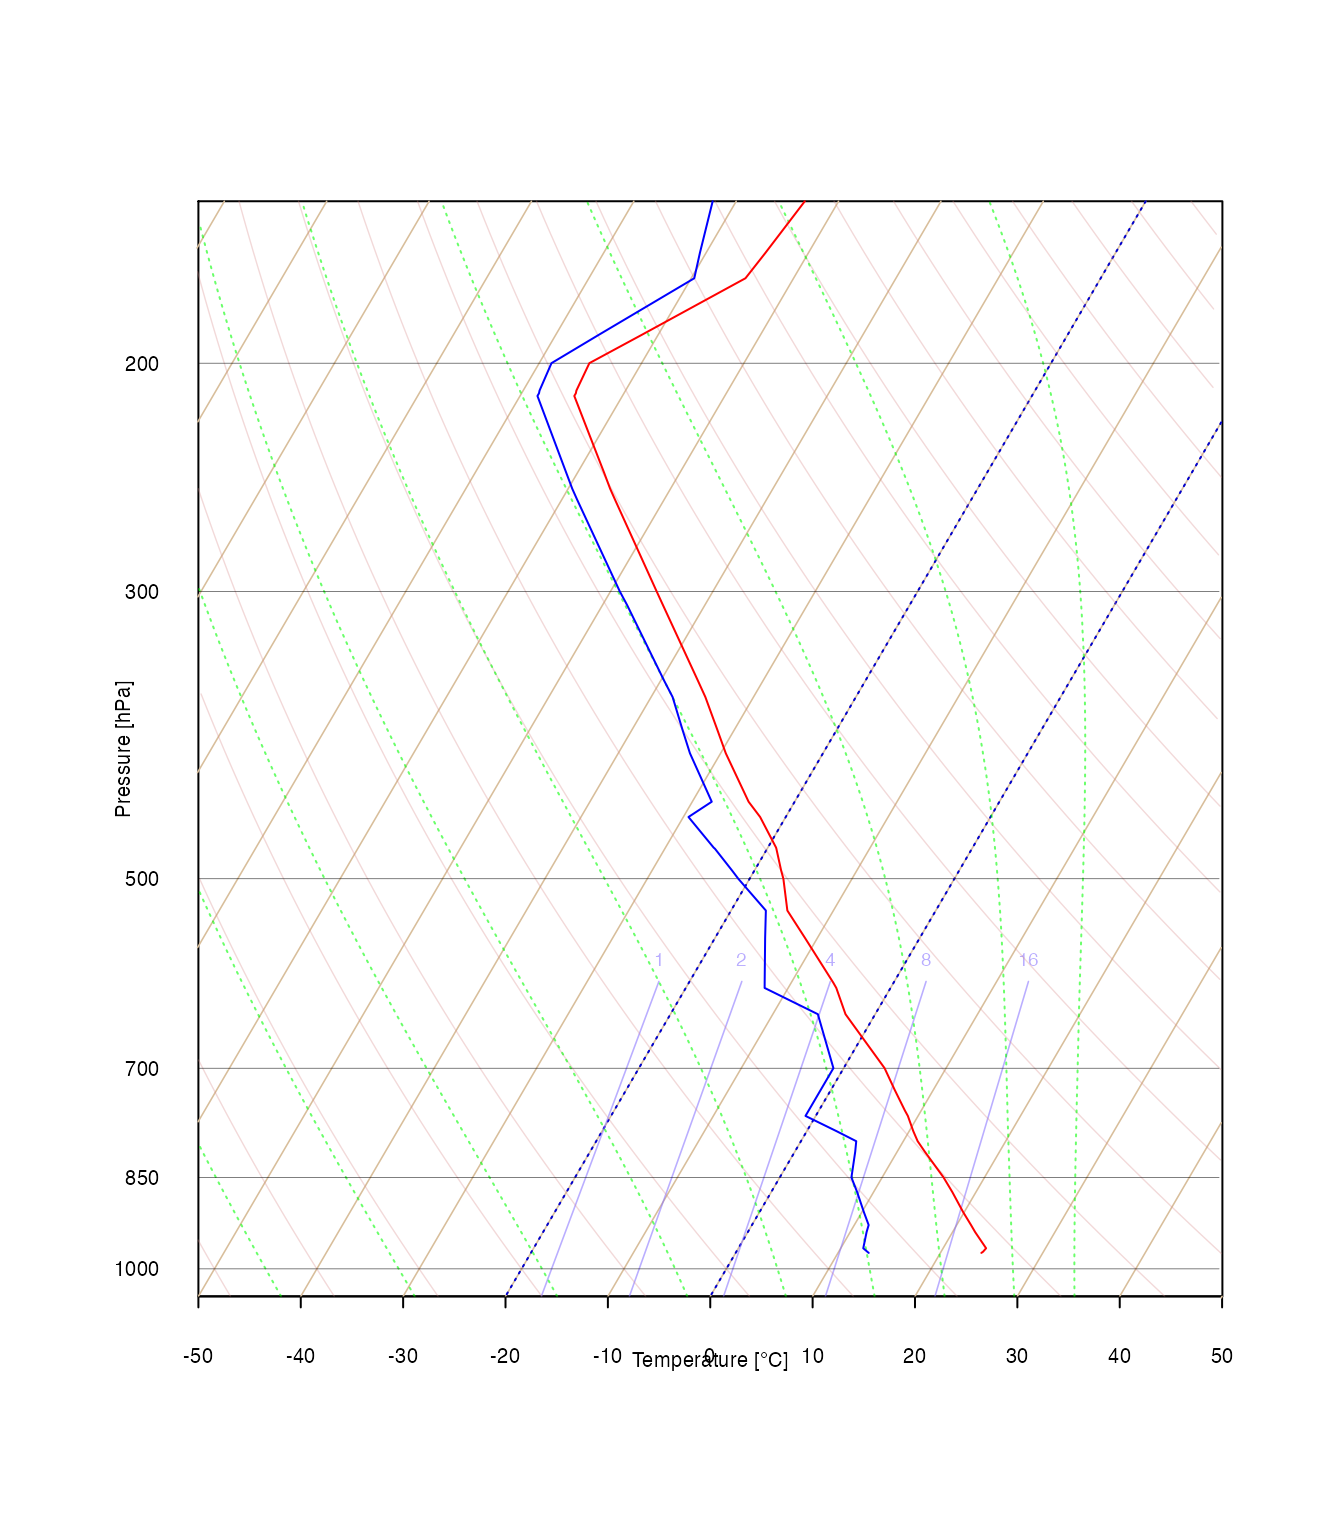
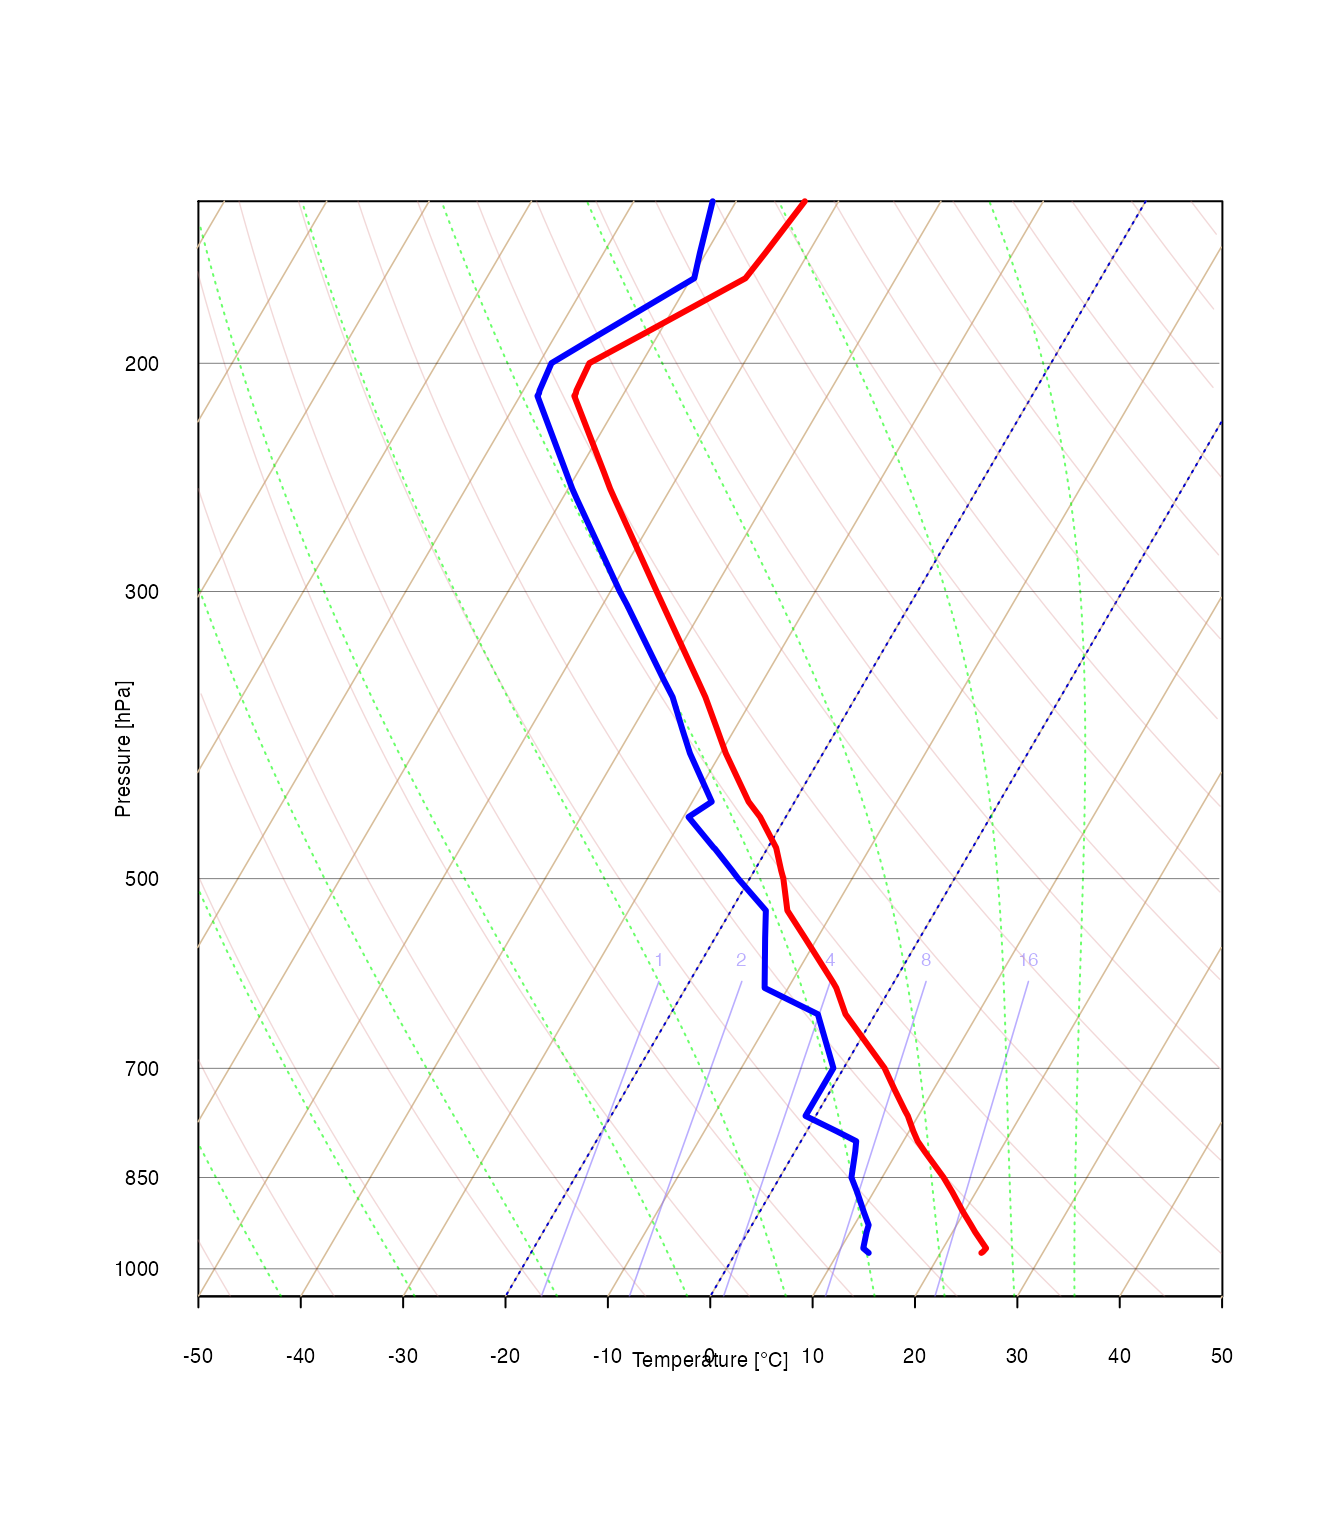
vignettes

diff --git a/docs/articles/getstarted.html b/docs/articles/getstarted.html
@@ -143,7 +143,7 @@
 <div class="sourceCode" id="cb2"><pre class="downlit sourceCode r">
 <code class="sourceCode R"><span class="va">profile</span> <span class="op">=</span> <span class="fu"><a href="../reference/get_sounding.html">get_sounding</a></span><span class="op">(</span>wmo_id <span class="op">=</span> <span class="fl">72562</span>, yy <span class="op">=</span> <span class="fl">1999</span>, mm <span class="op">=</span> <span class="fl">7</span>, dd <span class="op">=</span> <span class="fl">3</span>, hh <span class="op">=</span> <span class="fl">0</span><span class="op">)</span>
 <span class="co">#&gt; [1] "http://weather.uwyo.edu/cgi-bin/sounding?region=europe&amp;TYPE=TEXT%3ALIST&amp;YEAR=1999&amp;MONTH=07&amp;FROM=0300&amp;TO=0300&amp;STNM=72562"</span>
-<span class="co">#&gt; /var/folders/lw/3fnnk87n4q1dkl35s2_p24h80000gn/T//RtmpVd1t0z/filecac4297c04f</span>
+<span class="co">#&gt; /var/folders/lw/3fnnk87n4q1dkl35s2_p24h80000gn/T//RtmpLjT5dp/filedb72eaa55e</span>
 <span class="fu"><a href="https://rdrr.io/r/utils/head.html">head</a></span><span class="op">(</span><span class="va">profile</span><span class="op">)</span> <span class="co"># show first few rows of downloaded dataset</span>
 <span class="co">#&gt;   pressure altitude temp dpt  wd ws</span>
 <span class="co">#&gt; 3      906      849   32  26 110 14</span>
@@ -286,7 +286,7 @@
 <div class="sourceCode" id="cb4"><pre class="downlit sourceCode r">
 <code class="sourceCode R"><span class="va">chanhassen</span> <span class="op">=</span> <span class="fu"><a href="../reference/get_sounding.html">get_sounding</a></span><span class="op">(</span>wmo_id <span class="op">=</span> <span class="fl">72649</span>, yy <span class="op">=</span> <span class="fl">2001</span>, mm <span class="op">=</span> <span class="fl">5</span>, dd <span class="op">=</span> <span class="fl">10</span>, hh <span class="op">=</span> <span class="fl">00</span><span class="op">)</span>
 <span class="co">#&gt; [1] "http://weather.uwyo.edu/cgi-bin/sounding?region=europe&amp;TYPE=TEXT%3ALIST&amp;YEAR=2001&amp;MONTH=05&amp;FROM=1000&amp;TO=1000&amp;STNM=72649"</span>
-<span class="co">#&gt; /var/folders/lw/3fnnk87n4q1dkl35s2_p24h80000gn/T//RtmpVd1t0z/filecac74c046b8</span>
+<span class="co">#&gt; /var/folders/lw/3fnnk87n4q1dkl35s2_p24h80000gn/T//RtmpLjT5dp/filedb740fab998</span>
 <span class="fu"><a href="../reference/sounding_hodograph.html">sounding_hodograph</a></span><span class="op">(</span>ws <span class="op">=</span> <span class="va">chanhassen</span><span class="op">$</span><span class="va">ws</span>, wd <span class="op">=</span> <span class="va">chanhassen</span><span class="op">$</span><span class="va">wd</span>, 
                    altitude <span class="op">=</span> <span class="va">chanhassen</span><span class="op">$</span><span class="va">altitude</span>,max_speed <span class="op">=</span> <span class="fl">40</span><span class="op">)</span>
 <span class="fu"><a href="https://rdrr.io/r/graphics/title.html">title</a></span><span class="op">(</span><span class="st">"Chanhasses - 10 May 2001, 00:00 UTC"</span><span class="op">)</span></code></pre></div>
@@ -295,12 +295,12 @@
 <div id="example-5" class="section level3">
 <h3 class="hasAnchor">
 <a href="#example-5" class="anchor"></a>Example 5</h3>
-<p>Use the previously downloaded sounding and draw customized Skew-T plot (e.g. up to 150 hPa instead of default 100 hPa):</p>
+<p>Use the previously downloaded sounding and draw customized Skew-T plot (e.g. up to 150 hPa instead of default 100 hPa) with changed line width:</p>
 <div class="sourceCode" id="cb5"><pre class="downlit sourceCode r">
 <code class="sourceCode R"><span class="co"># chanhassen = get_sounding(wmo_id = 72649, yy = 2001, mm = 5, dd = 10, hh = 00)</span>
 <span class="fu"><a href="../reference/skewt_plot.html">skewt_plot</a></span><span class="op">(</span>ptop <span class="op">=</span> <span class="fl">150</span>, close_par <span class="op">=</span> <span class="cn">FALSE</span><span class="op">)</span>
-<span class="fu"><a href="../reference/skewt_lines.html">skewt_lines</a></span><span class="op">(</span><span class="va">chanhassen</span><span class="op">$</span><span class="va">temp</span>, <span class="va">chanhassen</span><span class="op">$</span><span class="va">pressure</span>, ptop <span class="op">=</span> <span class="fl">150</span>, col <span class="op">=</span> <span class="st">"red"</span><span class="op">)</span>
-<span class="fu"><a href="../reference/skewt_lines.html">skewt_lines</a></span><span class="op">(</span><span class="va">chanhassen</span><span class="op">$</span><span class="va">dpt</span>, <span class="va">chanhassen</span><span class="op">$</span><span class="va">pressure</span>, ptop <span class="op">=</span> <span class="fl">150</span>, col <span class="op">=</span> <span class="st">"blue"</span><span class="op">)</span></code></pre></div>
+<span class="fu"><a href="../reference/skewt_lines.html">skewt_lines</a></span><span class="op">(</span><span class="va">chanhassen</span><span class="op">$</span><span class="va">temp</span>, <span class="va">chanhassen</span><span class="op">$</span><span class="va">pressure</span>, ptop <span class="op">=</span> <span class="fl">150</span>, col <span class="op">=</span> <span class="st">"red"</span>, lwd <span class="op">=</span> <span class="fl">3</span><span class="op">)</span>
+<span class="fu"><a href="../reference/skewt_lines.html">skewt_lines</a></span><span class="op">(</span><span class="va">chanhassen</span><span class="op">$</span><span class="va">dpt</span>, <span class="va">chanhassen</span><span class="op">$</span><span class="va">pressure</span>, ptop <span class="op">=</span> <span class="fl">150</span>, col <span class="op">=</span> <span class="st">"blue"</span>, lwd <span class="op">=</span> <span class="fl">3</span><span class="op">)</span></code></pre></div>
 <p><img src="getstarted_files/figure-html/example5-1.png" width="672"></p>
 </div>
 <div id="example-6" class="section level3">
@@ -502,13 +502,13 @@
 <span class="va">t3</span> <span class="op">=</span> <span class="fu"><a href="https://rdrr.io/r/base/system.time.html">system.time</a></span><span class="op">(</span><span class="fu"><a href="../reference/sounding_compute.html">sounding_compute</a></span><span class="op">(</span><span class="va">sounding_vienna</span><span class="op">$</span><span class="va">pressure</span>, <span class="va">sounding_vienna</span><span class="op">$</span><span class="va">altitude</span>, <span class="va">sounding_vienna</span><span class="op">$</span><span class="va">temp</span>, <span class="va">sounding_vienna</span><span class="op">$</span><span class="va">dpt</span>, <span class="va">sounding_vienna</span><span class="op">$</span><span class="va">wd</span>, <span class="va">sounding_vienna</span><span class="op">$</span><span class="va">ws</span>, accuracy <span class="op">=</span> <span class="fl">3</span><span class="op">)</span><span class="op">)</span>
 <span class="fu"><a href="https://rdrr.io/r/base/print.html">print</a></span><span class="op">(</span><span class="va">t1</span><span class="op">)</span>
 <span class="co">#&gt; użytkownik     system   upłynęło </span>
-<span class="co">#&gt;      0.005      0.000      0.005</span>
+<span class="co">#&gt;      0.004      0.000      0.005</span>
 <span class="fu"><a href="https://rdrr.io/r/base/print.html">print</a></span><span class="op">(</span><span class="va">t2</span><span class="op">)</span>
 <span class="co">#&gt; użytkownik     system   upłynęło </span>
-<span class="co">#&gt;      0.014      0.000      0.015</span>
+<span class="co">#&gt;      0.013      0.000      0.013</span>
 <span class="fu"><a href="https://rdrr.io/r/base/print.html">print</a></span><span class="op">(</span><span class="va">t3</span><span class="op">)</span>
 <span class="co">#&gt; użytkownik     system   upłynęło </span>
-<span class="co">#&gt;      0.189      0.001      0.191</span></code></pre></div>
+<span class="co">#&gt;      0.185      0.002      0.187</span></code></pre></div>
 </div>
 <div id="important-notes" class="section level3">
 <h3 class="hasAnchor">

diff --git a/docs/reference/sounding_hodograph.html b/docs/reference/sounding_hodograph.html
@@ -186,7 +186,7 @@
 
     <h2 class="hasAnchor" id="examples"><a class="anchor" href="#examples"></a>Examples</h2>
     <pre class="examples"><div class='input'><span class='va'>chanhassen</span> <span class='op'>=</span> <span class='fu'><a href='get_sounding.html'>get_sounding</a></span><span class='op'>(</span>wmo_id <span class='op'>=</span> <span class='fl'>72649</span>, yy <span class='op'>=</span> <span class='fl'>2001</span>, mm <span class='op'>=</span> <span class='fl'>5</span>, dd <span class='op'>=</span> <span class='fl'>10</span>, hh <span class='op'>=</span> <span class='fl'>00</span><span class='op'>)</span>
-</div><div class='output co'>#&gt; [1] "http://weather.uwyo.edu/cgi-bin/sounding?region=europe&amp;TYPE=TEXT%3ALIST&amp;YEAR=2001&amp;MONTH=05&amp;FROM=1000&amp;TO=1000&amp;STNM=72649"</div><div class='output co'>#&gt; <span class='message'>/var/folders/lw/3fnnk87n4q1dkl35s2_p24h80000gn/T//RtmpHkS0Gi/filec921ce88d47</span></div><div class='input'><span class='fu'>sounding_hodograph</span><span class='op'>(</span>ws <span class='op'>=</span> <span class='va'>chanhassen</span><span class='op'>$</span><span class='va'>ws</span>, wd <span class='op'>=</span> <span class='va'>chanhassen</span><span class='op'>$</span><span class='va'>wd</span>, 
+</div><div class='output co'>#&gt; [1] "http://weather.uwyo.edu/cgi-bin/sounding?region=europe&amp;TYPE=TEXT%3ALIST&amp;YEAR=2001&amp;MONTH=05&amp;FROM=1000&amp;TO=1000&amp;STNM=72649"</div><div class='output co'>#&gt; <span class='message'>/var/folders/lw/3fnnk87n4q1dkl35s2_p24h80000gn/T//RtmpaPR0lI/filed9954421fe7</span></div><div class='input'><span class='fu'>sounding_hodograph</span><span class='op'>(</span>ws <span class='op'>=</span> <span class='va'>chanhassen</span><span class='op'>$</span><span class='va'>ws</span>, wd <span class='op'>=</span> <span class='va'>chanhassen</span><span class='op'>$</span><span class='va'>wd</span>, 
                    altitude <span class='op'>=</span> <span class='va'>chanhassen</span><span class='op'>$</span><span class='va'>altitude</span>,max_speed <span class='op'>=</span> <span class='fl'>40</span><span class='op'>)</span>
 </div><div class='input'><span class='fu'><a href='https://rdrr.io/r/graphics/title.html'>title</a></span><span class='op'>(</span><span class='st'>"Chanhasses - 10 May 2001, 00:00 UTC"</span><span class='op'>)</span>
 </div><div class='img'><img src='sounding_hodograph-1.png' alt='' width='700' height='433' /></div></pre>

diff --git a/docs/reference/get_sounding.html b/docs/reference/get_sounding.html
@@ -191,7 +191,7 @@
                          mm <span class='op'>=</span> <span class='fl'>8</span>, 
                          dd <span class='op'>=</span> <span class='fl'>20</span>, 
                          hh <span class='op'>=</span> <span class='fl'>12</span><span class='op'>)</span>
-</div><div class='output co'>#&gt; [1] "http://weather.uwyo.edu/cgi-bin/sounding?region=europe&amp;TYPE=TEXT%3ALIST&amp;YEAR=2010&amp;MONTH=08&amp;FROM=2012&amp;TO=2012&amp;STNM=12120"</div><div class='output co'>#&gt; <span class='message'>/var/folders/lw/3fnnk87n4q1dkl35s2_p24h80000gn/T//RtmpHkS0Gi/filec921dd448ef</span></div><div class='input'>  <span class='fu'><a href='https://rdrr.io/r/utils/head.html'>head</a></span><span class='op'>(</span><span class='va'>profile</span><span class='op'>)</span>
+</div><div class='output co'>#&gt; [1] "http://weather.uwyo.edu/cgi-bin/sounding?region=europe&amp;TYPE=TEXT%3ALIST&amp;YEAR=2010&amp;MONTH=08&amp;FROM=2012&amp;TO=2012&amp;STNM=12120"</div><div class='output co'>#&gt; <span class='message'>/var/folders/lw/3fnnk87n4q1dkl35s2_p24h80000gn/T//RtmpaPR0lI/filed99469b2998</span></div><div class='input'>  <span class='fu'><a href='https://rdrr.io/r/utils/head.html'>head</a></span><span class='op'>(</span><span class='va'>profile</span><span class='op'>)</span>
 </div><div class='output co'>#&gt;   pressure altitude temp  dpt  wd ws
 #&gt; 1     1021        6 19.8 13.8 265 12
 #&gt; 2     1020       14 18.4 11.4 265 12
